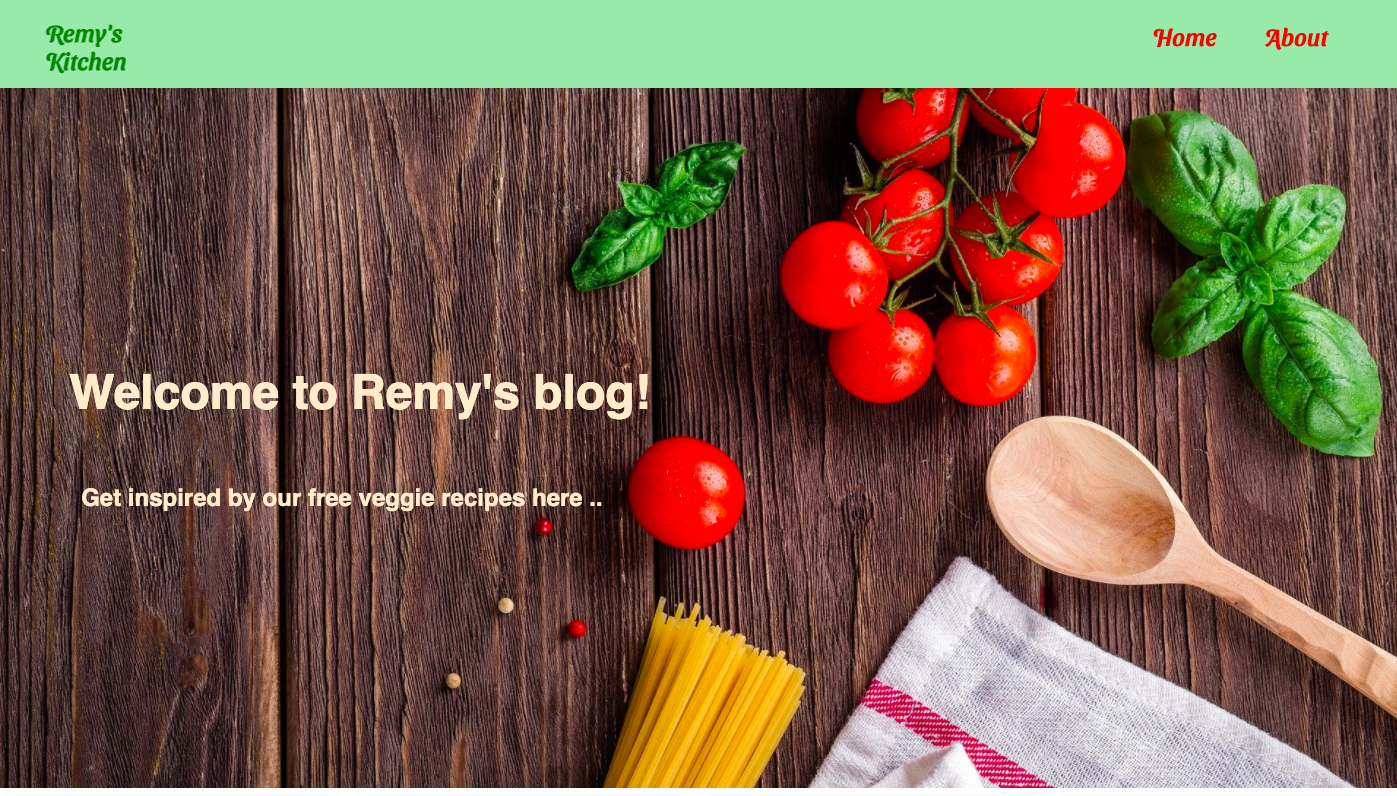
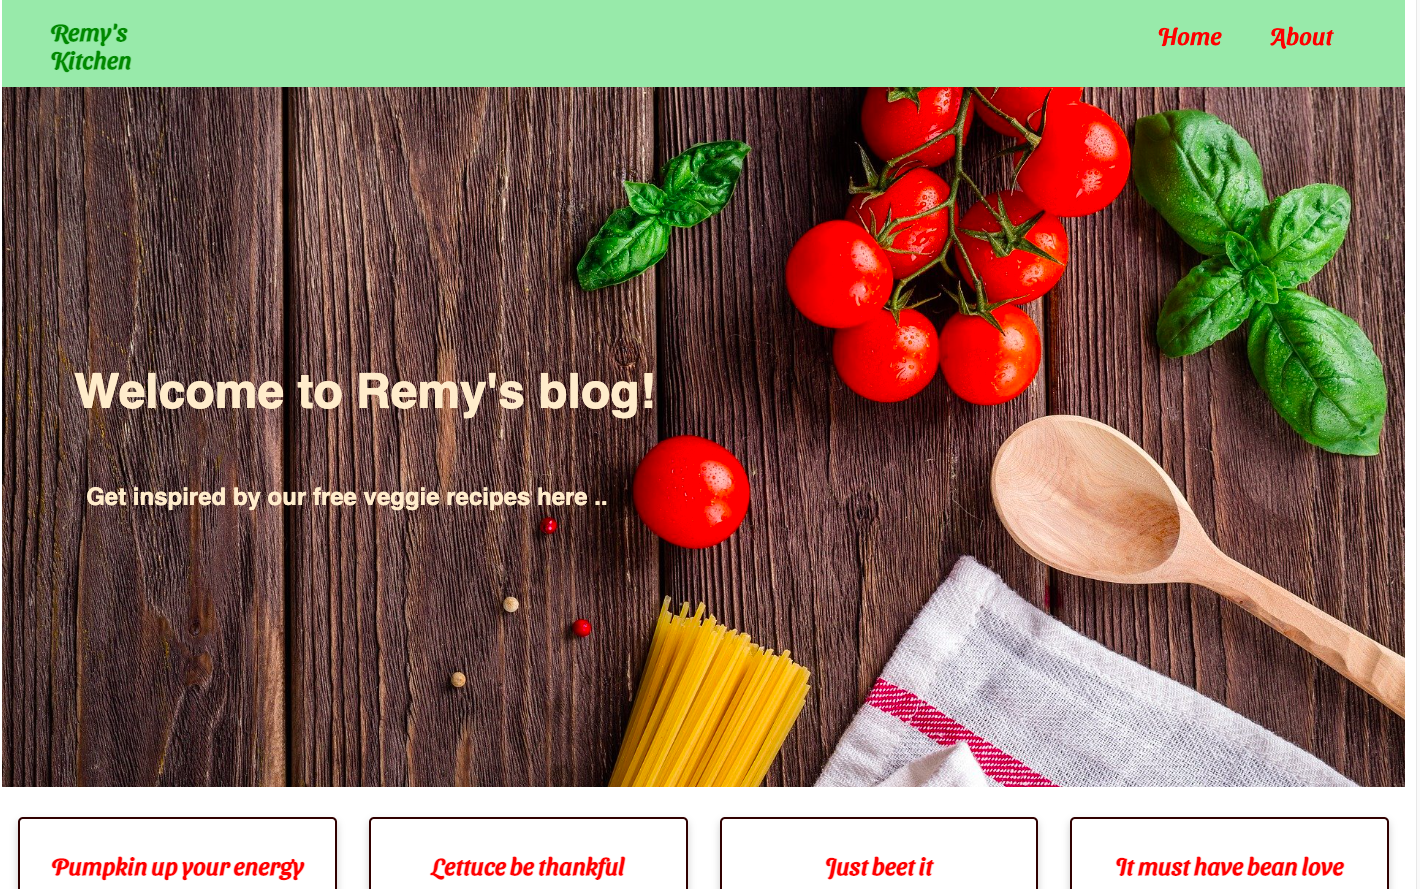
fix media screen card

diff --git a/src/styles/projectStyle.css b/src/styles/projectStyle.css
@@ -19,9 +19,15 @@
     text-align: center;
 }
 
+#projectTextTwo {
+    color: #cb4335;
+    margin-top: -2em;
+}
+
 #textRow {
     display: flex;
     justify-content: center;
+    align-items: center;
     flex-direction: column;
 }
 
@@ -31,7 +37,7 @@
     min-height: 50px;
     font-size: 1.5rem;
     font-weight: 800;
-    margin-top: 0em;
+    margin-top: 0.5em;
     margin-bottom: 0em;
     text-align: center;
     display: flex;
@@ -45,8 +51,8 @@
 }
 
 #card {
-    width: 20rem;
-    min-height: 26rem;
+    width: 24rem;
+    min-height: 24rem;
     margin: 1.5em;
     padding: 0em;
     display: flex;
@@ -57,8 +63,20 @@
 
 #descDiv {
     width: 100%;
-    min-height: 15vh;
+    min-height: 12vh;
+    margin-bottom: 0.5em;
 }
+
+@media screen and (max-width: 600px) {
+    #descDiv {
+        min-height: 15vh;
+    }
+    #card {
+        width: 20rem;
+        height: 30rem;
+    }
+   
+}    
 
 #buttonDiv {
     width: 100%;
@@ -66,6 +84,7 @@
     display: flex;
     justify-content: center;
     align-items: flex-end;
+    margin-bottom: 0.5em;
 }
 
 #card:hover {

diff --git a/src/components/ProjectCard.js b/src/components/ProjectCard.js
@@ -27,6 +27,7 @@ export default function ProjectCard(props) {
         <h3 data-aos="fade-right" className="text-center" id="projectText">
           Check out my latest work
         </h3>
+        <p id="projectTextTwo">click on image to see the demo</p>
       </MDBRow>
       <MDBRow id="cardRow" data-aos="fade-left">
         {ProjectList &&
@@ -41,7 +42,7 @@ export default function ProjectCard(props) {
                           src={project.image}
                           className="img-fluid"
                           alt="projectfoto"
-                          style={{ width: "100%" }}
+                          style={{ width: "100%", height: "180px" }}
                         />
                         <MDBMask
                           id="stack"
